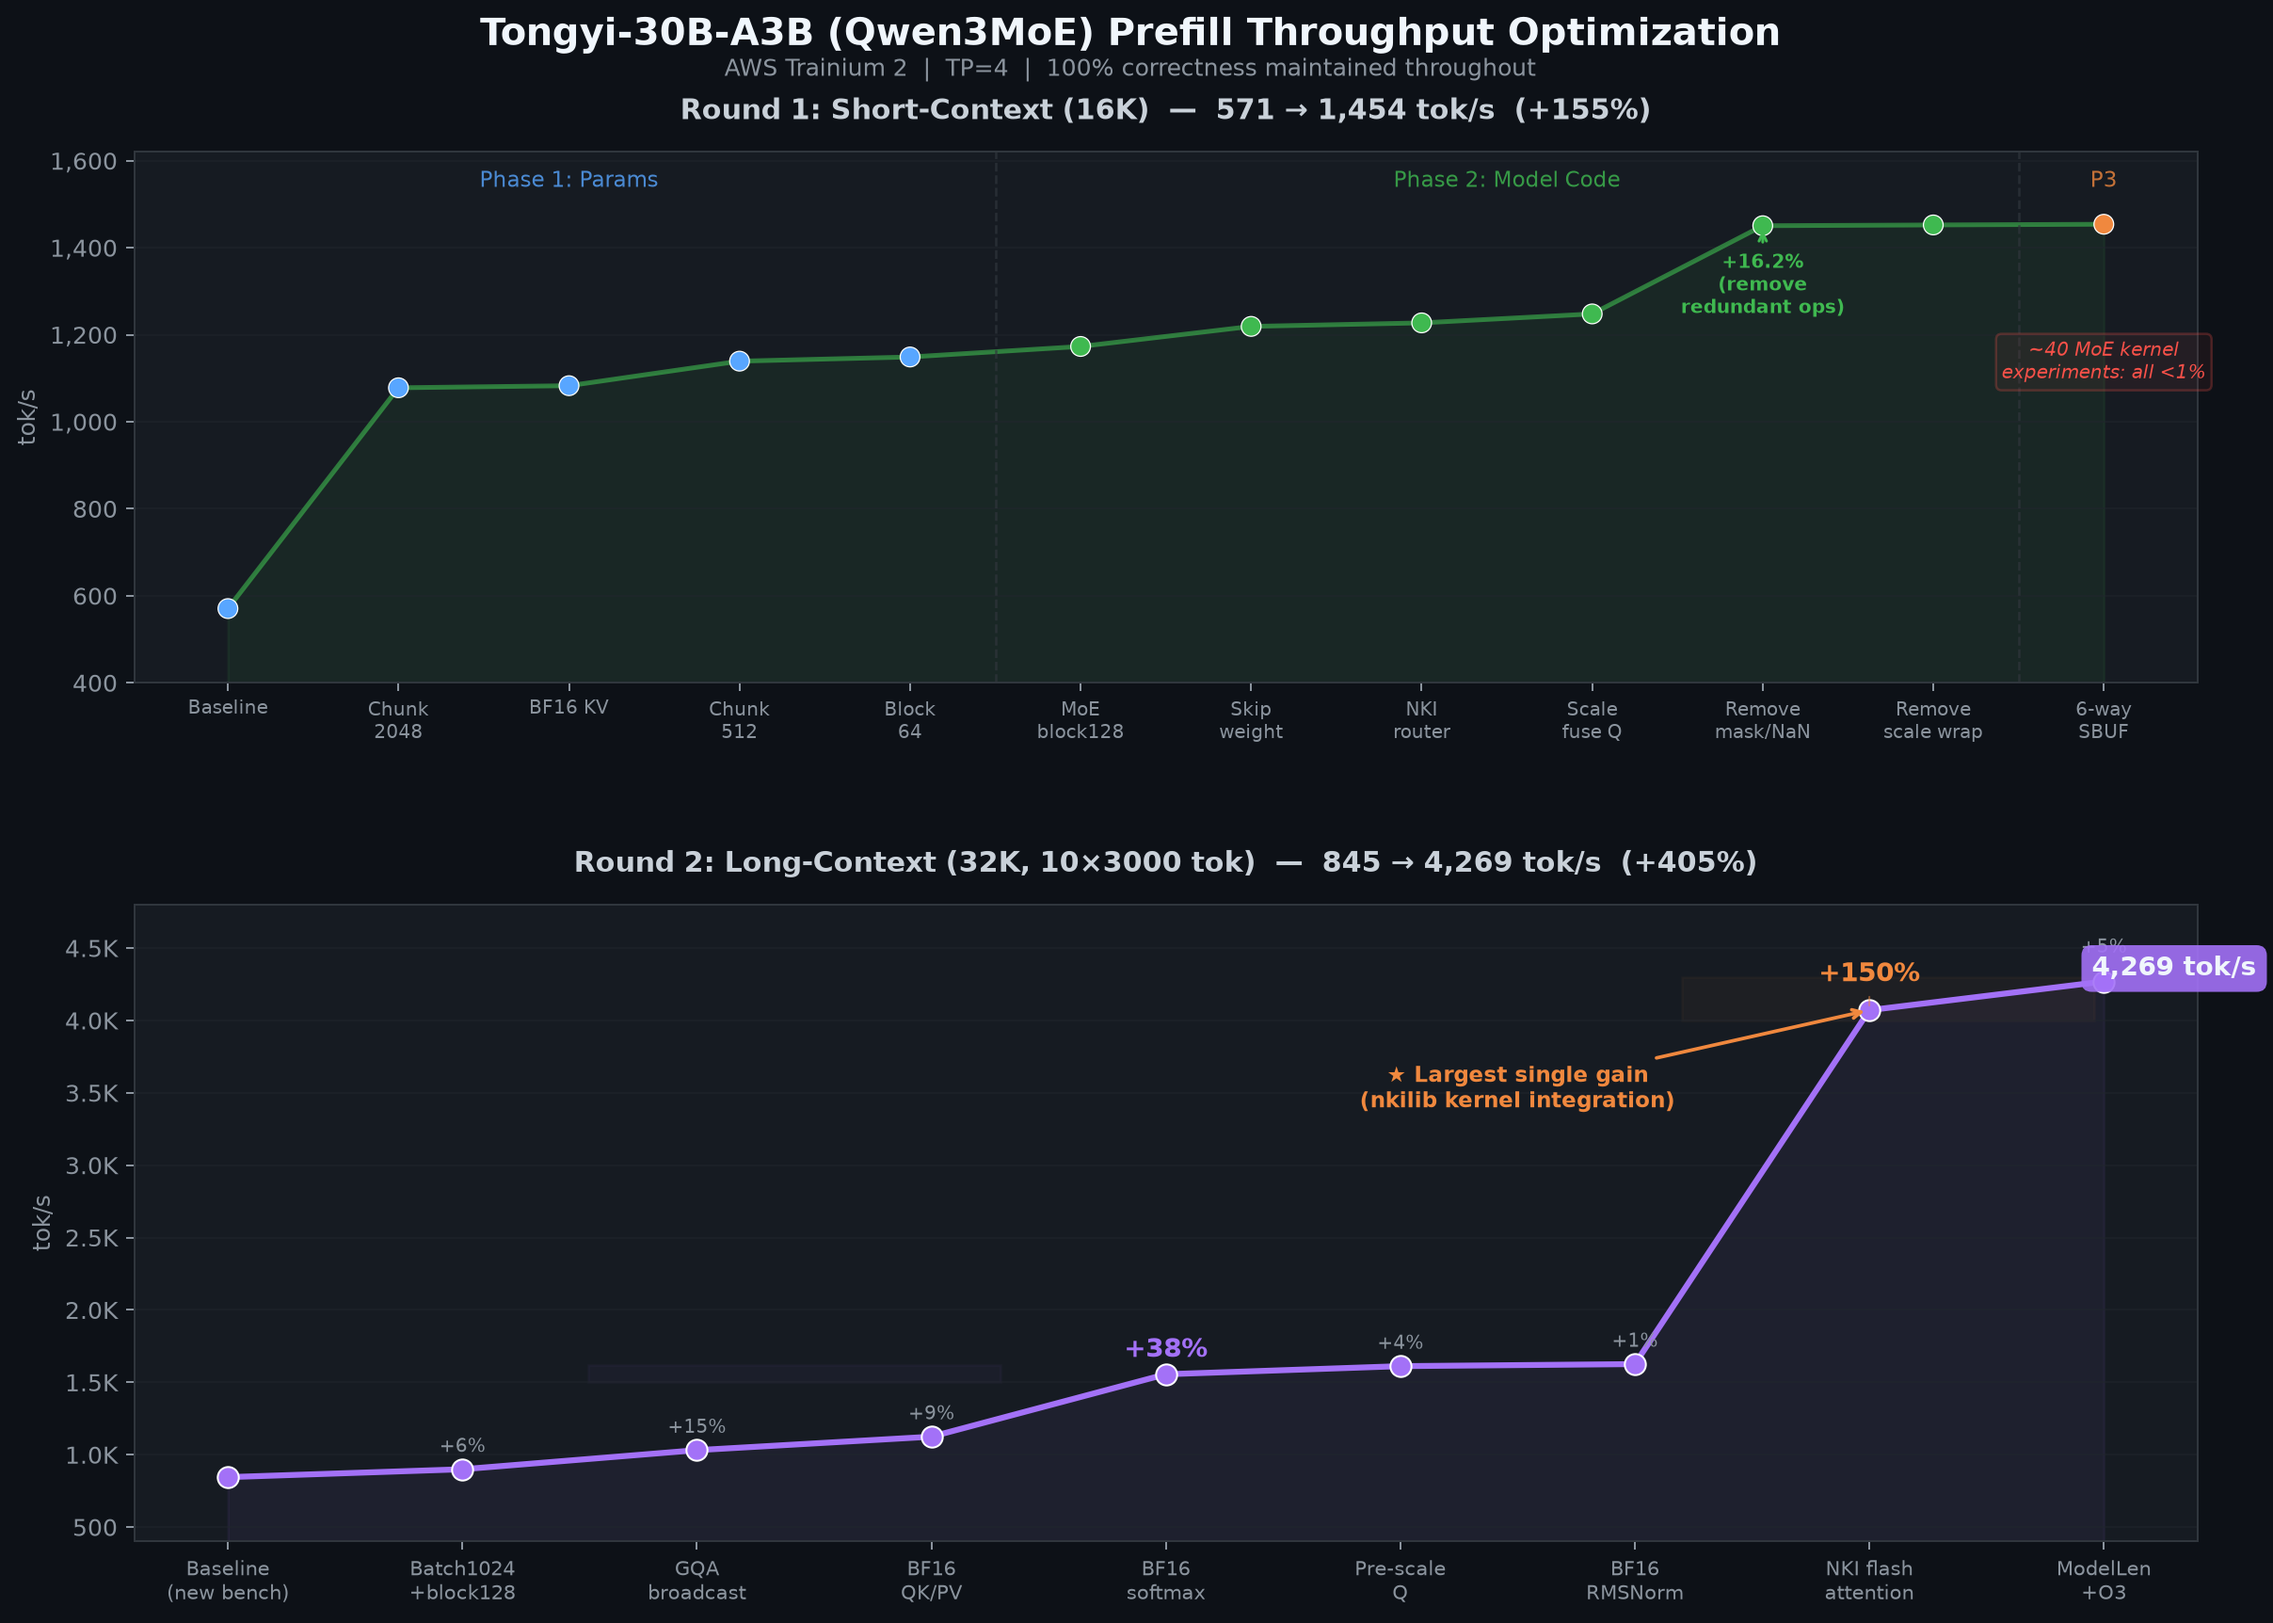
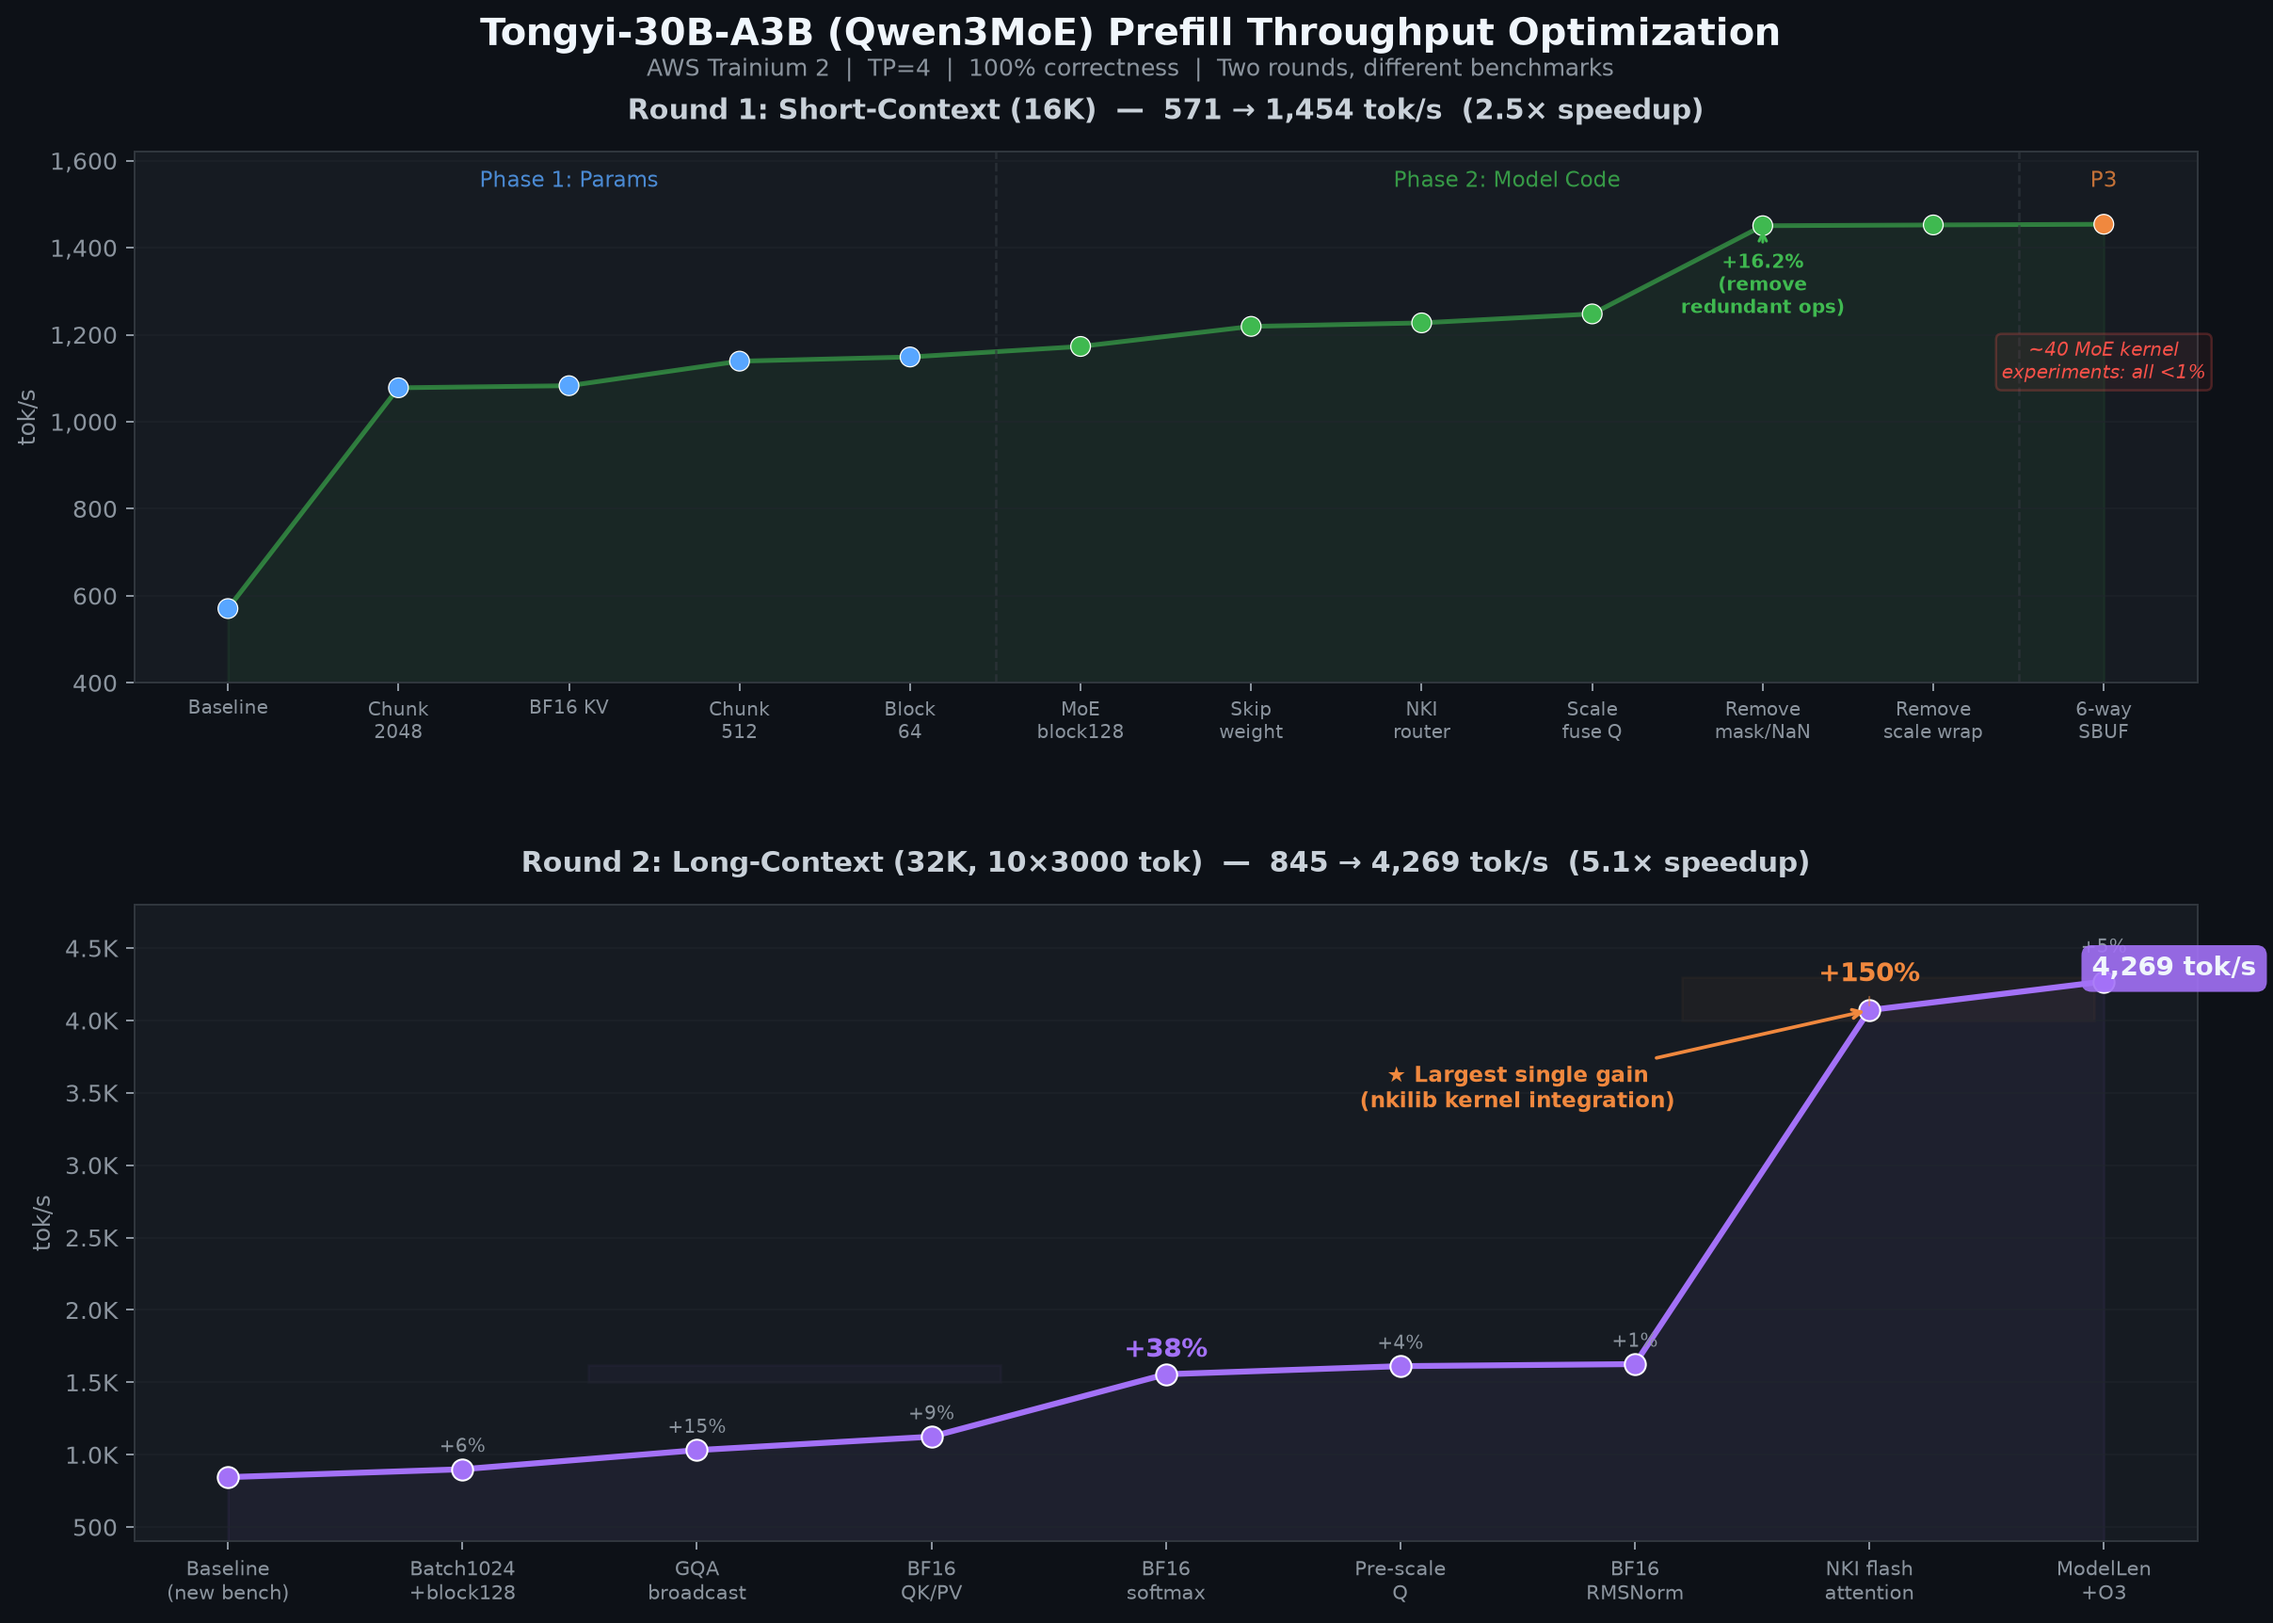
clarify speedup per round: 2.5x (Round 1) and 5.1x (Round 2)
The two rounds use different benchmarks so speedups are reported
separately instead of a misleading combined 7.5x figure.

Changed region(s): [[0.2795, 0.0307, 0.7453, 0.0922], [0.2174, 0.5226, 0.8075, 0.5534]]

diff --git a/generate_chart.py b/generate_chart.py
@@ -50,13 +50,13 @@ fig.subplots_adjust(hspace=0.38, top=0.89, bottom=0.07, left=0.08, right=0.95)
 
 fig.suptitle('Tongyi-30B-A3B (Qwen3MoE) Prefill Throughput Optimization',
              fontsize=16, fontweight='bold', color='#f0f6fc', y=0.97)
-fig.text(0.5, 0.935, 'AWS Trainium 2  |  TP=4  |  100% correctness maintained throughout',
+fig.text(0.5, 0.935, 'AWS Trainium 2  |  TP=4  |  100% correctness  |  Two rounds, different benchmarks',
          ha='center', fontsize=10, color='#8b949e')
 
 # ══════════════════════════════════════════════════════════════════════
 # Round 1 chart
 # ══════════════════════════════════════════════════════════════════════
-ax1.set_title('Round 1: Short-Context (16K)  —  571 → 1,454 tok/s  (+155%)',
+ax1.set_title('Round 1: Short-Context (16K)  —  571 → 1,454 tok/s  (2.5× speedup)',
               fontsize=12, fontweight='bold', color='#c9d1d9', pad=14)
 
 x1 = np.arange(len(r1_labels))
@@ -95,7 +95,7 @@ ax1.grid(True, axis='y', alpha=0.5)
 # ══════════════════════════════════════════════════════════════════════
 # Round 2 chart
 # ══════════════════════════════════════════════════════════════════════
-ax2.set_title('Round 2: Long-Context (32K, 10×3000 tok)  —  845 → 4,269 tok/s  (+405%)',
+ax2.set_title('Round 2: Long-Context (32K, 10×3000 tok)  —  845 → 4,269 tok/s  (5.1× speedup)',
               fontsize=12, fontweight='bold', color='#c9d1d9', pad=14)
 
 x2 = np.arange(len(r2_labels))

diff --git a/optimization_report_en.md b/optimization_report_en.md
@@ -1,8 +1,7 @@
 # Tongyi-30B-A3B Prefill Optimization Report
 
 **Hardware**: AWS Trainium 2 (trn2.48xlarge)  
-**Model**: Qwen3MoE 30B total / 3B active, 128 experts, top-8 routing  
-**Final Result**: 571 → 4,269 tok/s (7.5×), 100% correctness
+**Model**: Qwen3MoE 30B total / 3B active, 128 experts, top-8 routing
 
 ---
 
@@ -10,7 +9,7 @@
 
 **Benchmark**: TP=4, 16K context, fast iteration (compile-dominated workloads)  
 **Duration**: Phase 1 (params) + Phase 2 (model code) + Phase 3 (MoE kernel)  
-**Result**: 571 → 1,454 tok/s (+155%)
+**Result**: 571 → 1,454 tok/s (2.5× speedup), 100% correctness
 
 ### Successful Optimizations
 
@@ -56,8 +55,8 @@ Phase 3 spent extensive effort (~40 experiments) on MoE CTE kernel micro-optimiz
 
 **Benchmark**: TP=4, **32K context, 10 turns × 3000 tokens** (accumulates to 30K+ prior KV)  
 **Duration**: Phase 2 (model code, long-context attention focus) + Phase 3 (NKI kernel integration)  
-**Baseline**: 845 tok/s (new benchmark configuration)  
-**Result**: 845 → 4,269 tok/s (+405%)
+**Baseline**: 845 tok/s (new benchmark configuration, with Round 1 optimizations already applied)  
+**Result**: 845 → 4,269 tok/s (5.1× speedup), 100% correctness
 
 The benchmark was redesigned to expose the real bottleneck: long-context attention where each chunk must attend to ~30K prior KV tokens.
 
@@ -99,12 +98,16 @@ The benchmark was redesigned to expose the real bottleneck: long-context attenti
 | | Round 1 | Round 2 |
 |---|---------|---------|
 | Benchmark | 16K context, fast compile | 32K context, 10×3000 token turns |
+| Baseline | 571 tok/s (unoptimized) | 845 tok/s (Round 1 opts applied, harder benchmark) |
+| Final | 1,454 tok/s | 4,269 tok/s |
+| Speedup | **2.5×** | **5.1×** |
 | Bottleneck exposed | MoE (incorrectly) | Attention memory bandwidth |
 | Total experiments | ~60 | ~15 |
-| Total gain | +155% (571→1,454) | +405% (845→4,269) |
 | Largest single gain | Remove mask/NaN (+16.2%) | NKI flash_attention (+150%) |
 | Approach | Exhaustive micro-tuning | Targeted bottleneck elimination |
 | Key lesson | MoE kernel was already optimal | Attention bandwidth is the real wall |
+
+Note: The two rounds use different benchmarks, so their speedups are not directly multiplicative. Round 2's baseline (845 tok/s) already includes all Round 1 optimizations but runs a heavier workload (10×3000 tokens accumulating to 30K context vs Round 1's shorter sequences).
 
 ---
 
@@ -122,5 +125,5 @@ The final system is **memory-bandwidth bound**:
 
 | Config | tok/s | Correctness | Baseline | Speedup |
 |--------|-------|-------------|----------|---------|
-| Medium (TP=4, 32K) | 4,269 | 100% | 571 | 7.5× |
+| Medium (TP=4, 32K) | 4,269 | 100% | 845 | 5.1× |
 | Full (TP=8, 128K) | 1,533 | 100% | 364.5 | 4.2× |
